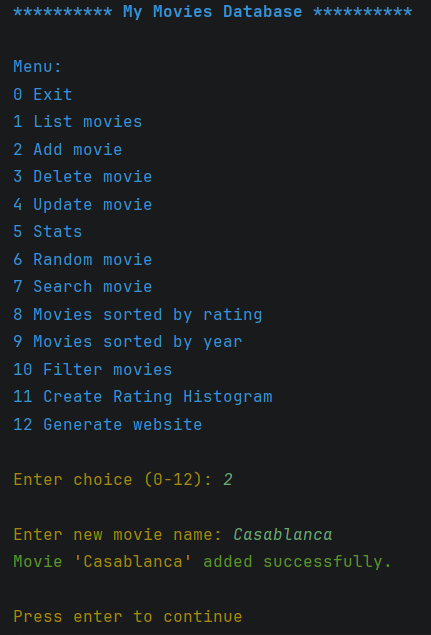
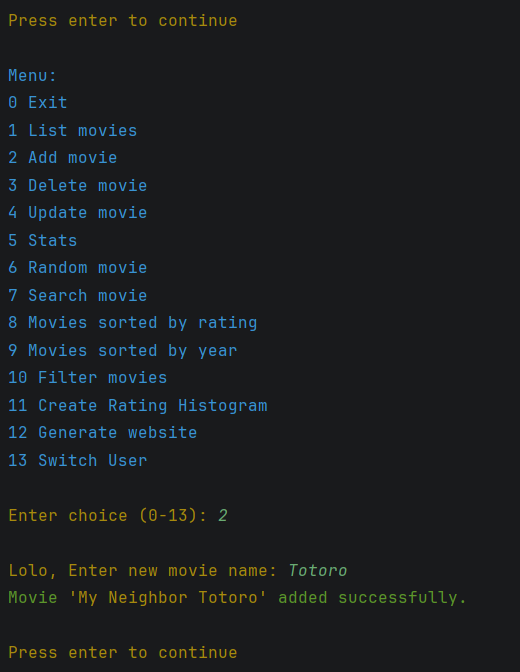
Update README.md, deleted API_KEY, correct histogram

diff --git a/program_management/movie_project_sql.py b/program_management/movie_project_sql.py
@@ -8,7 +8,7 @@ from colorama import Fore, Style
 import movie_storage.movie_storage_sql as storage
 import main
 
-API_KEY = "388d4af4"
+API_KEY = "ENTER YOUR API"
 HTML_TEMPLATE_PATH = "_static/index_template.html"
 
 colorama.init(autoreset=True)
@@ -361,9 +361,9 @@ def histogram_rating(user_id, user):
     )
     ratings = list_ratings(movies)
     plot.hist(ratings, bins=range(0, 11, 1), color="skyblue", edgecolor="black")
-    plot.xlabel(f"Movie Rating for {user}")
+    plot.xlabel("Movie Rating")
     plot.ylabel("Number of Movies")
-    plot.title("Movie Rating Distribution")
+    plot.title(f"Movie Rating Distribution for {user}")
     plot.savefig(f"{file_name_histogram}.png", dpi=300, bbox_inches="tight")
     plot.show()
 

diff --git a/README.md b/README.md
@@ -26,6 +26,11 @@ The application provides tools for browsing, searching, analyzing and visualizin
 
 ___
 
+### User Management
+
+- Create new users of the database
+- Each user have independent collections in the database
+
 ### Movie Management
 
 - View all movies in the database
@@ -69,11 +74,12 @@ ___
 
 ___
 
-1. The user searches for a movie.
-2. The application retrieves movie information (release year, rating and poster url) through the OMDb API.
-3. The movie data is stored in a local SQLite database.
-4. The user can manage and analyze their collection through the command-line interface.
-5. The application can generate a rating chart and a static website from the stored data.
+1. Select a user or create a new one.
+2. The user searches for a movie.
+3. The application retrieves movie information (release year, rating and poster url) through the OMDb API.
+4. The movie data is stored in a local SQLite database.
+5. The user can manage and analyze their collection through the command-line interface.
+6. The application can generate a rating chart and a static website from the stored data.
 
 ## **Installation**
 
@@ -128,10 +134,14 @@ ___
 Start the program:
 
 ```
-python movie_project_sql.py
+python main.py
 ```
 
-Example menu:
+Example main menu:
+
+![App_Menu Screenshot](images_readme/screenshot_users_menu.png)
+
+Example database management menu:
 
 ![App_Menu Screenshot](images_readme/screenshot_menu.png)
 
@@ -152,27 +162,31 @@ ___
 
 ### Example Workflow
 
-1. Add a movie by title.
+1. Select a User:
+
+![App_add_title](images_readme/screenshot_select_user.png)
+
+2. Add a movie by title.
 
 ![App_add_title](images_readme/screenshot_add_movie.png)
 
-2. List the movies in the database.
+3. List the movies in the database.
 
 ![App_list_movies](images_readme/screenshot_list_movies.png)
 
-3. Generate statistics:
+4. Generate statistics:
 
 ![App_list_stats](images_readme/screenshot_stats.png)
 
-4. Display movies sorted by year.
+5. Display movies sorted by year.
 
 ![App_sort_by_year](images_readme/screenshot_sort_by_year.png)
 
-5. Crate a rating Histogram.
+6. Crate a rating Histogram.
 
 ![App_histogram](images_readme/screenshot_histogram.png)
 
-6. Export the collection as a static HTML website.
+7. Export the collection as a static HTML website.
 
 ![App_web](images_readme/screenshot_web.png)
 
